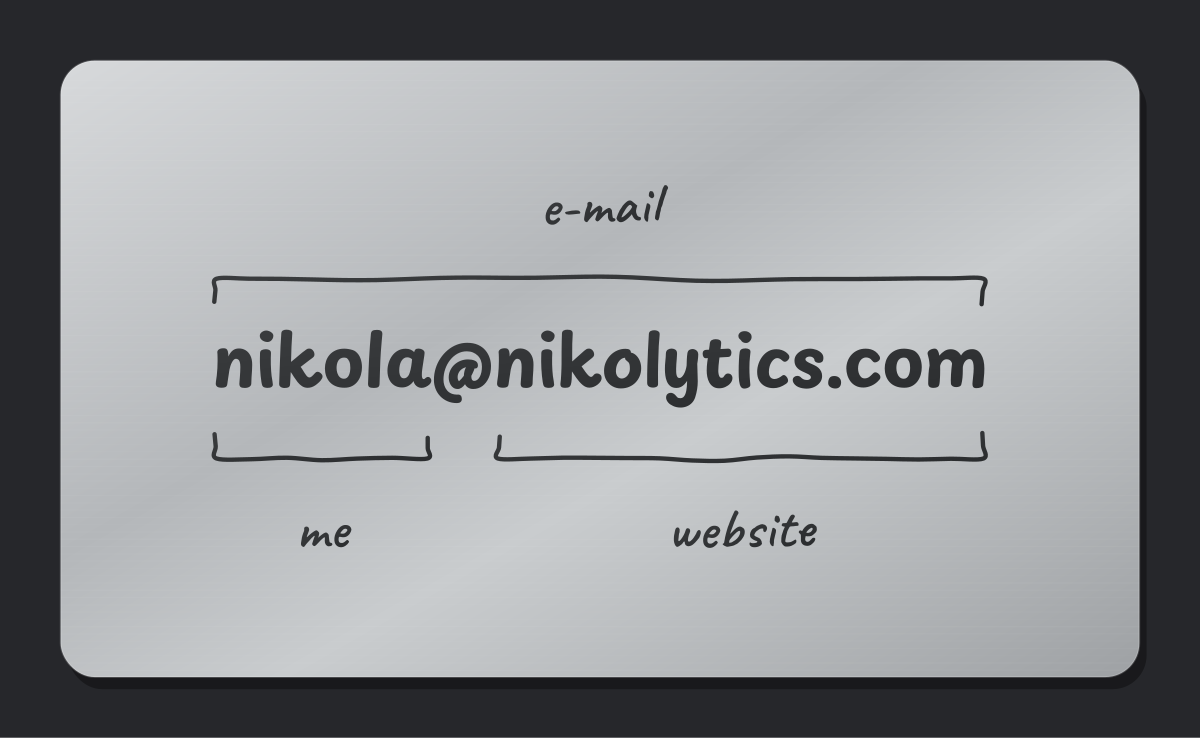
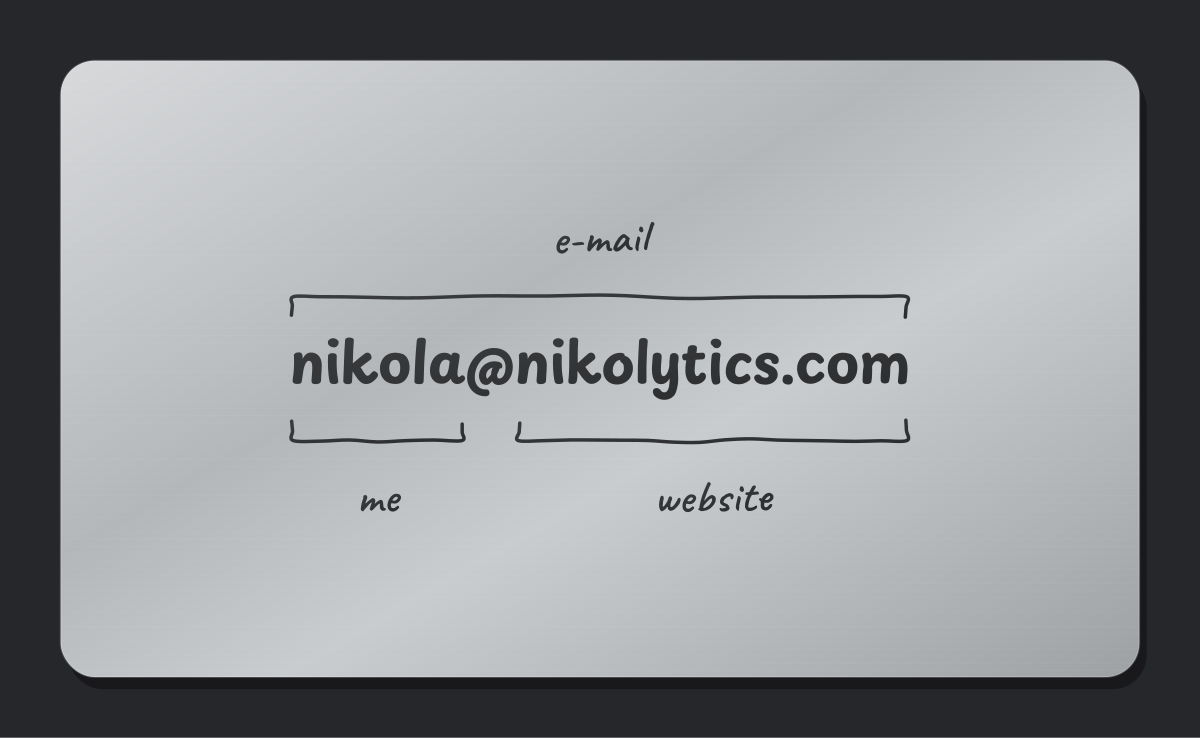
Scale composition to 80% for a cleaner, more premium card back
Claude-Session: https://claude.ai/code/session_01NopCU4BZ4epPy7qkQeV9GA

diff --git a/design/business-card/generate_sketch.py b/design/business-card/generate_sketch.py
@@ -166,6 +166,7 @@ email_base += shift; brk_y += shift; lbl_base += shift
 top_brk_y += shift; top_base += shift
 
 STROKE = 3.6
+SCALE = 0.8  # shrink the whole composition, centred on the card
 
 def place(d, tx, ty, rot=0.0):
     r = f" rotate({rot:.2f})" if rot else ""
@@ -178,10 +179,11 @@ svg.append(f"""<!--
   Physical size: 88.9 x 50.8 mm. 1 SVG unit = 0.1 mm.
   Single-colour artwork: everything black is engraved / etched.
   All text converted to outlines (no fonts required).
-  Line weight: {STROKE / 10:.2f} mm.
+  Line weight: {STROKE * SCALE / 10:.2f} mm (composition scaled to {SCALE:.0%}).
   Faces: Playpen Sans Bold 700 (email), Caveat SemiBold (labels).
   Brackets are hand-drawn strokes (seeded, reproducible).
 -->""")
+svg.append(f'<g transform="translate({CX:.1f} {H / 2:.1f}) scale({SCALE}) translate({-CX:.1f} {-H / 2:.1f})">')
 svg.append('<g fill="#000">')
 svg.append(place(email_d, x0, email_base))
 svg.append(place(top_d, CX - top_w / 2, top_base, rot=-1.6))
@@ -192,6 +194,7 @@ svg.append(f'<g fill="none" stroke="#000" stroke-width="{STROKE}" stroke-linecap
 svg.append(f'<path d="{hand_bracket(all_x1, all_x2, top_brk_y, -19.0, -21.0)}"/>')
 svg.append(f'<path d="{hand_bracket(me_x1, me_x2, brk_y, 20.0, 17.0)}"/>')
 svg.append(f'<path d="{hand_bracket(web_x1, web_x2, brk_y, 18.0, 21.0)}"/>')
+svg.append("</g>")
 svg.append("</g>")
 svg.append("</svg>")
 
